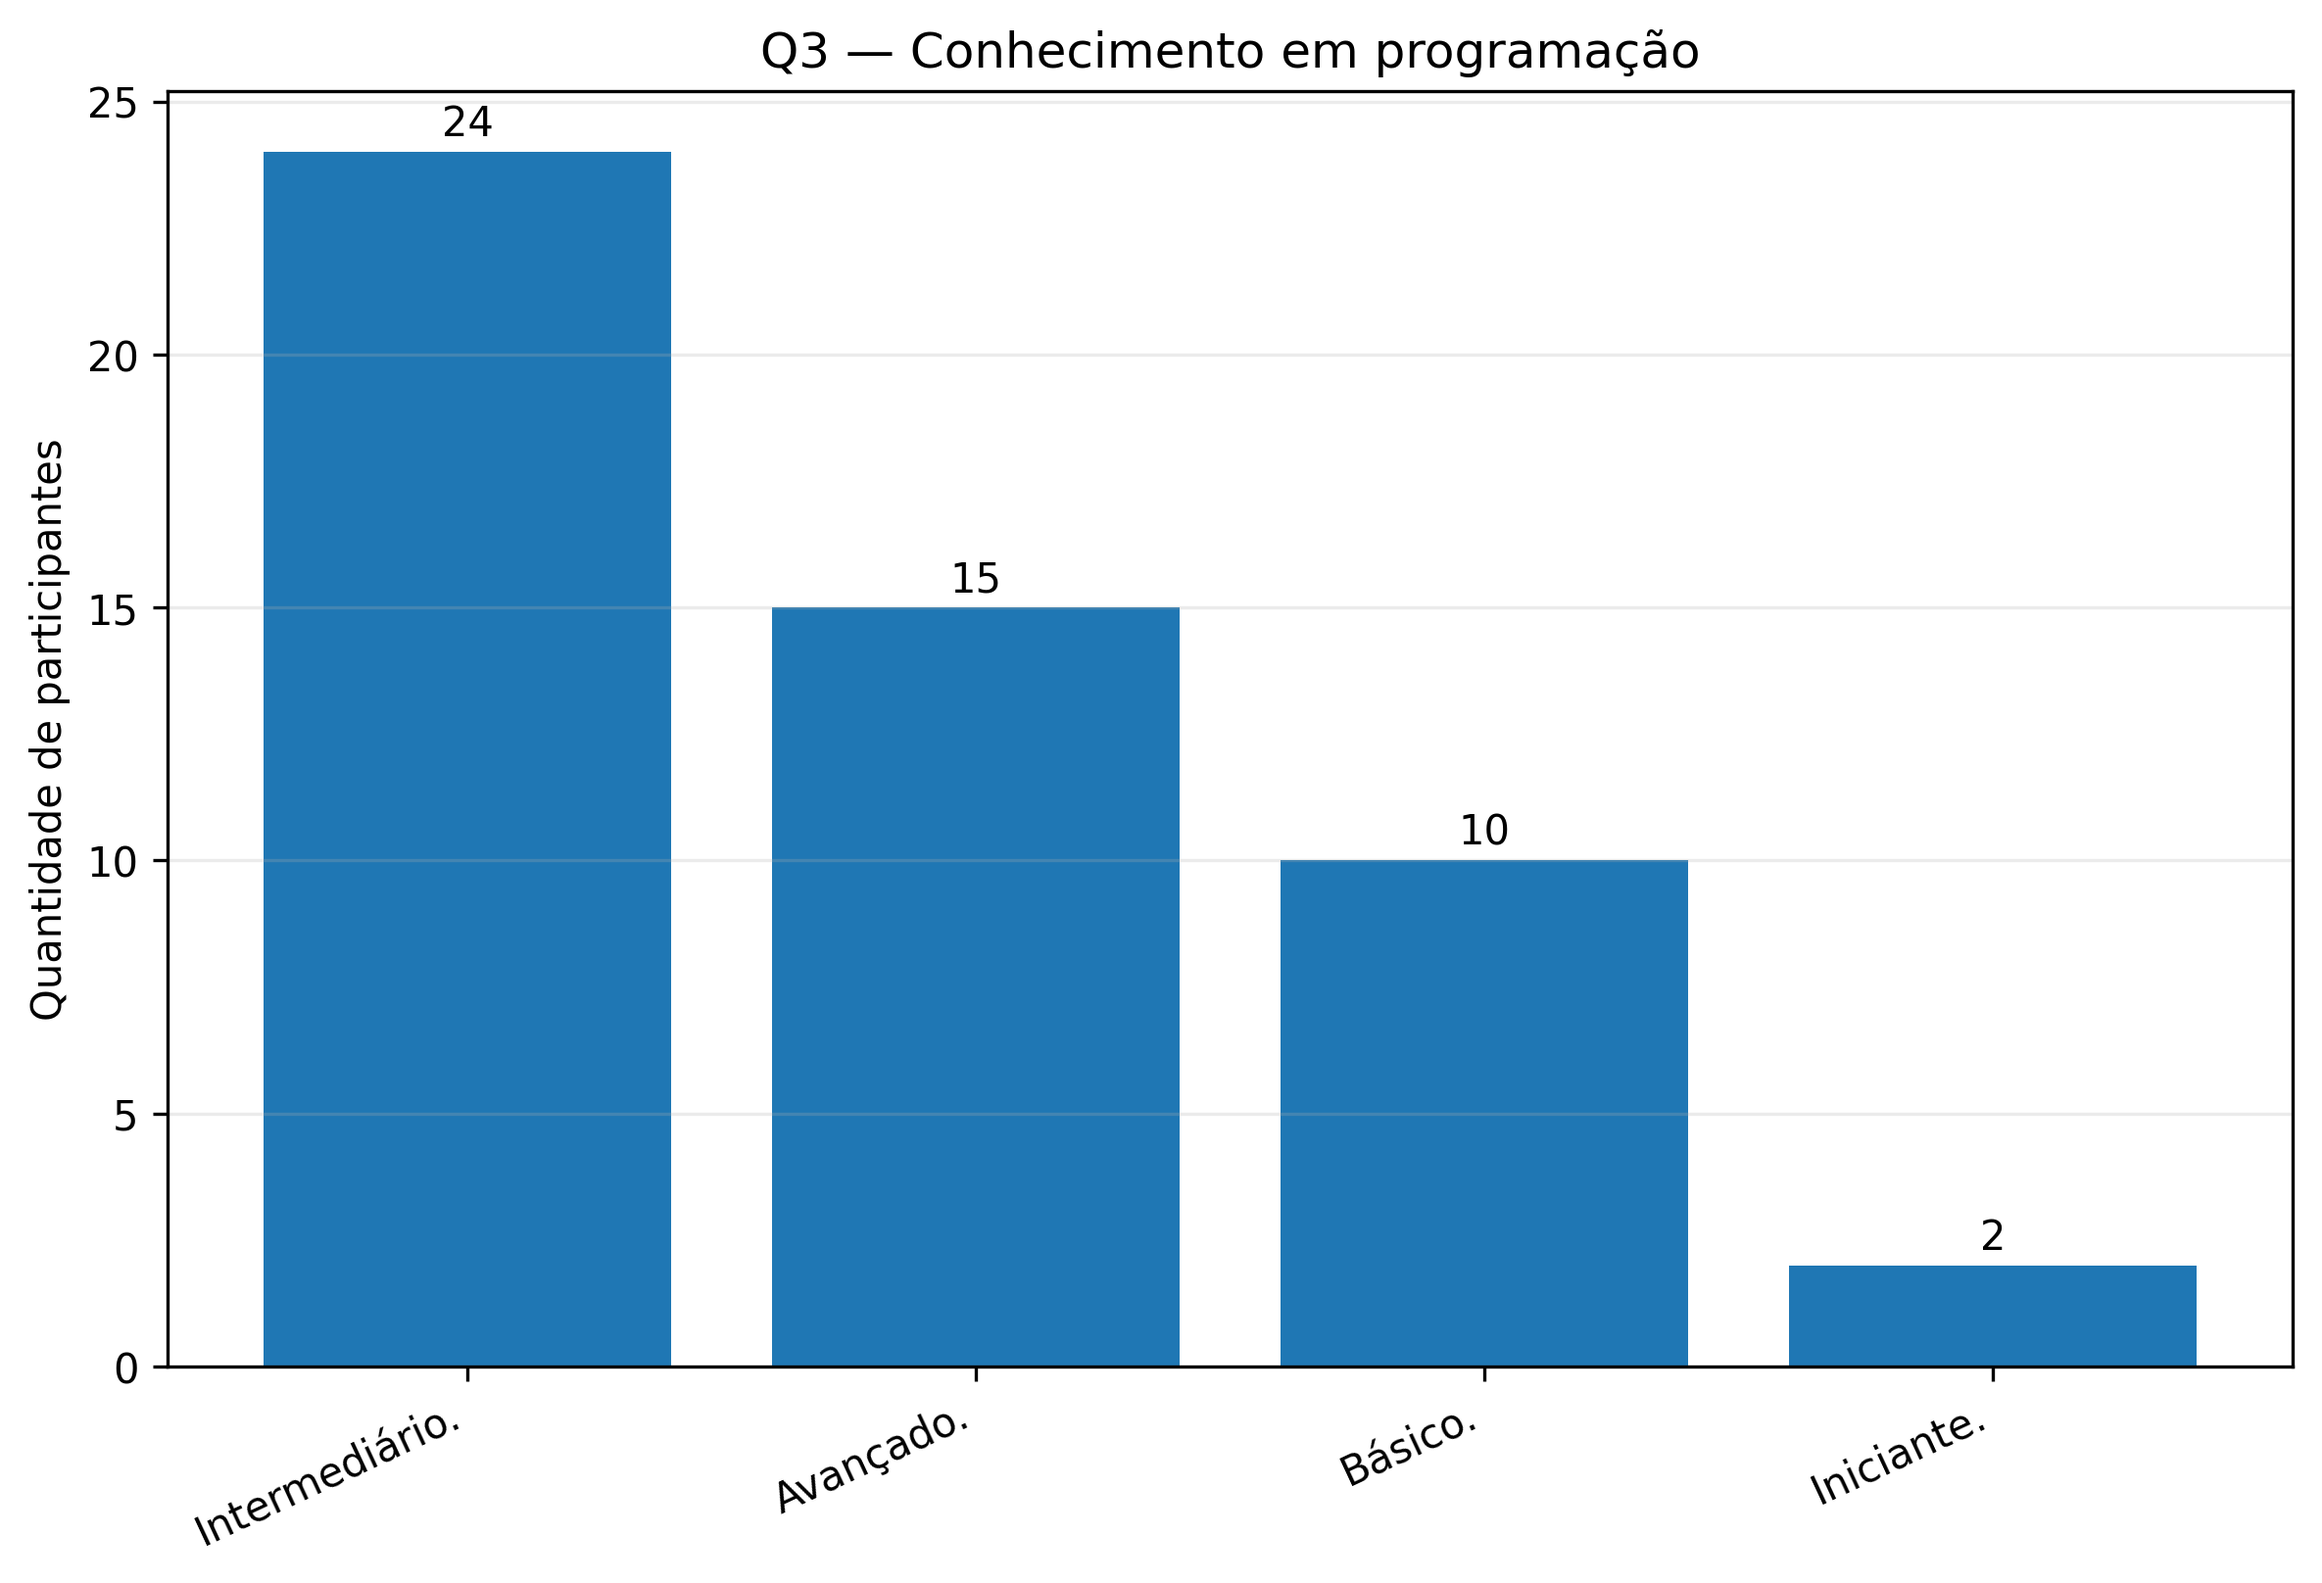
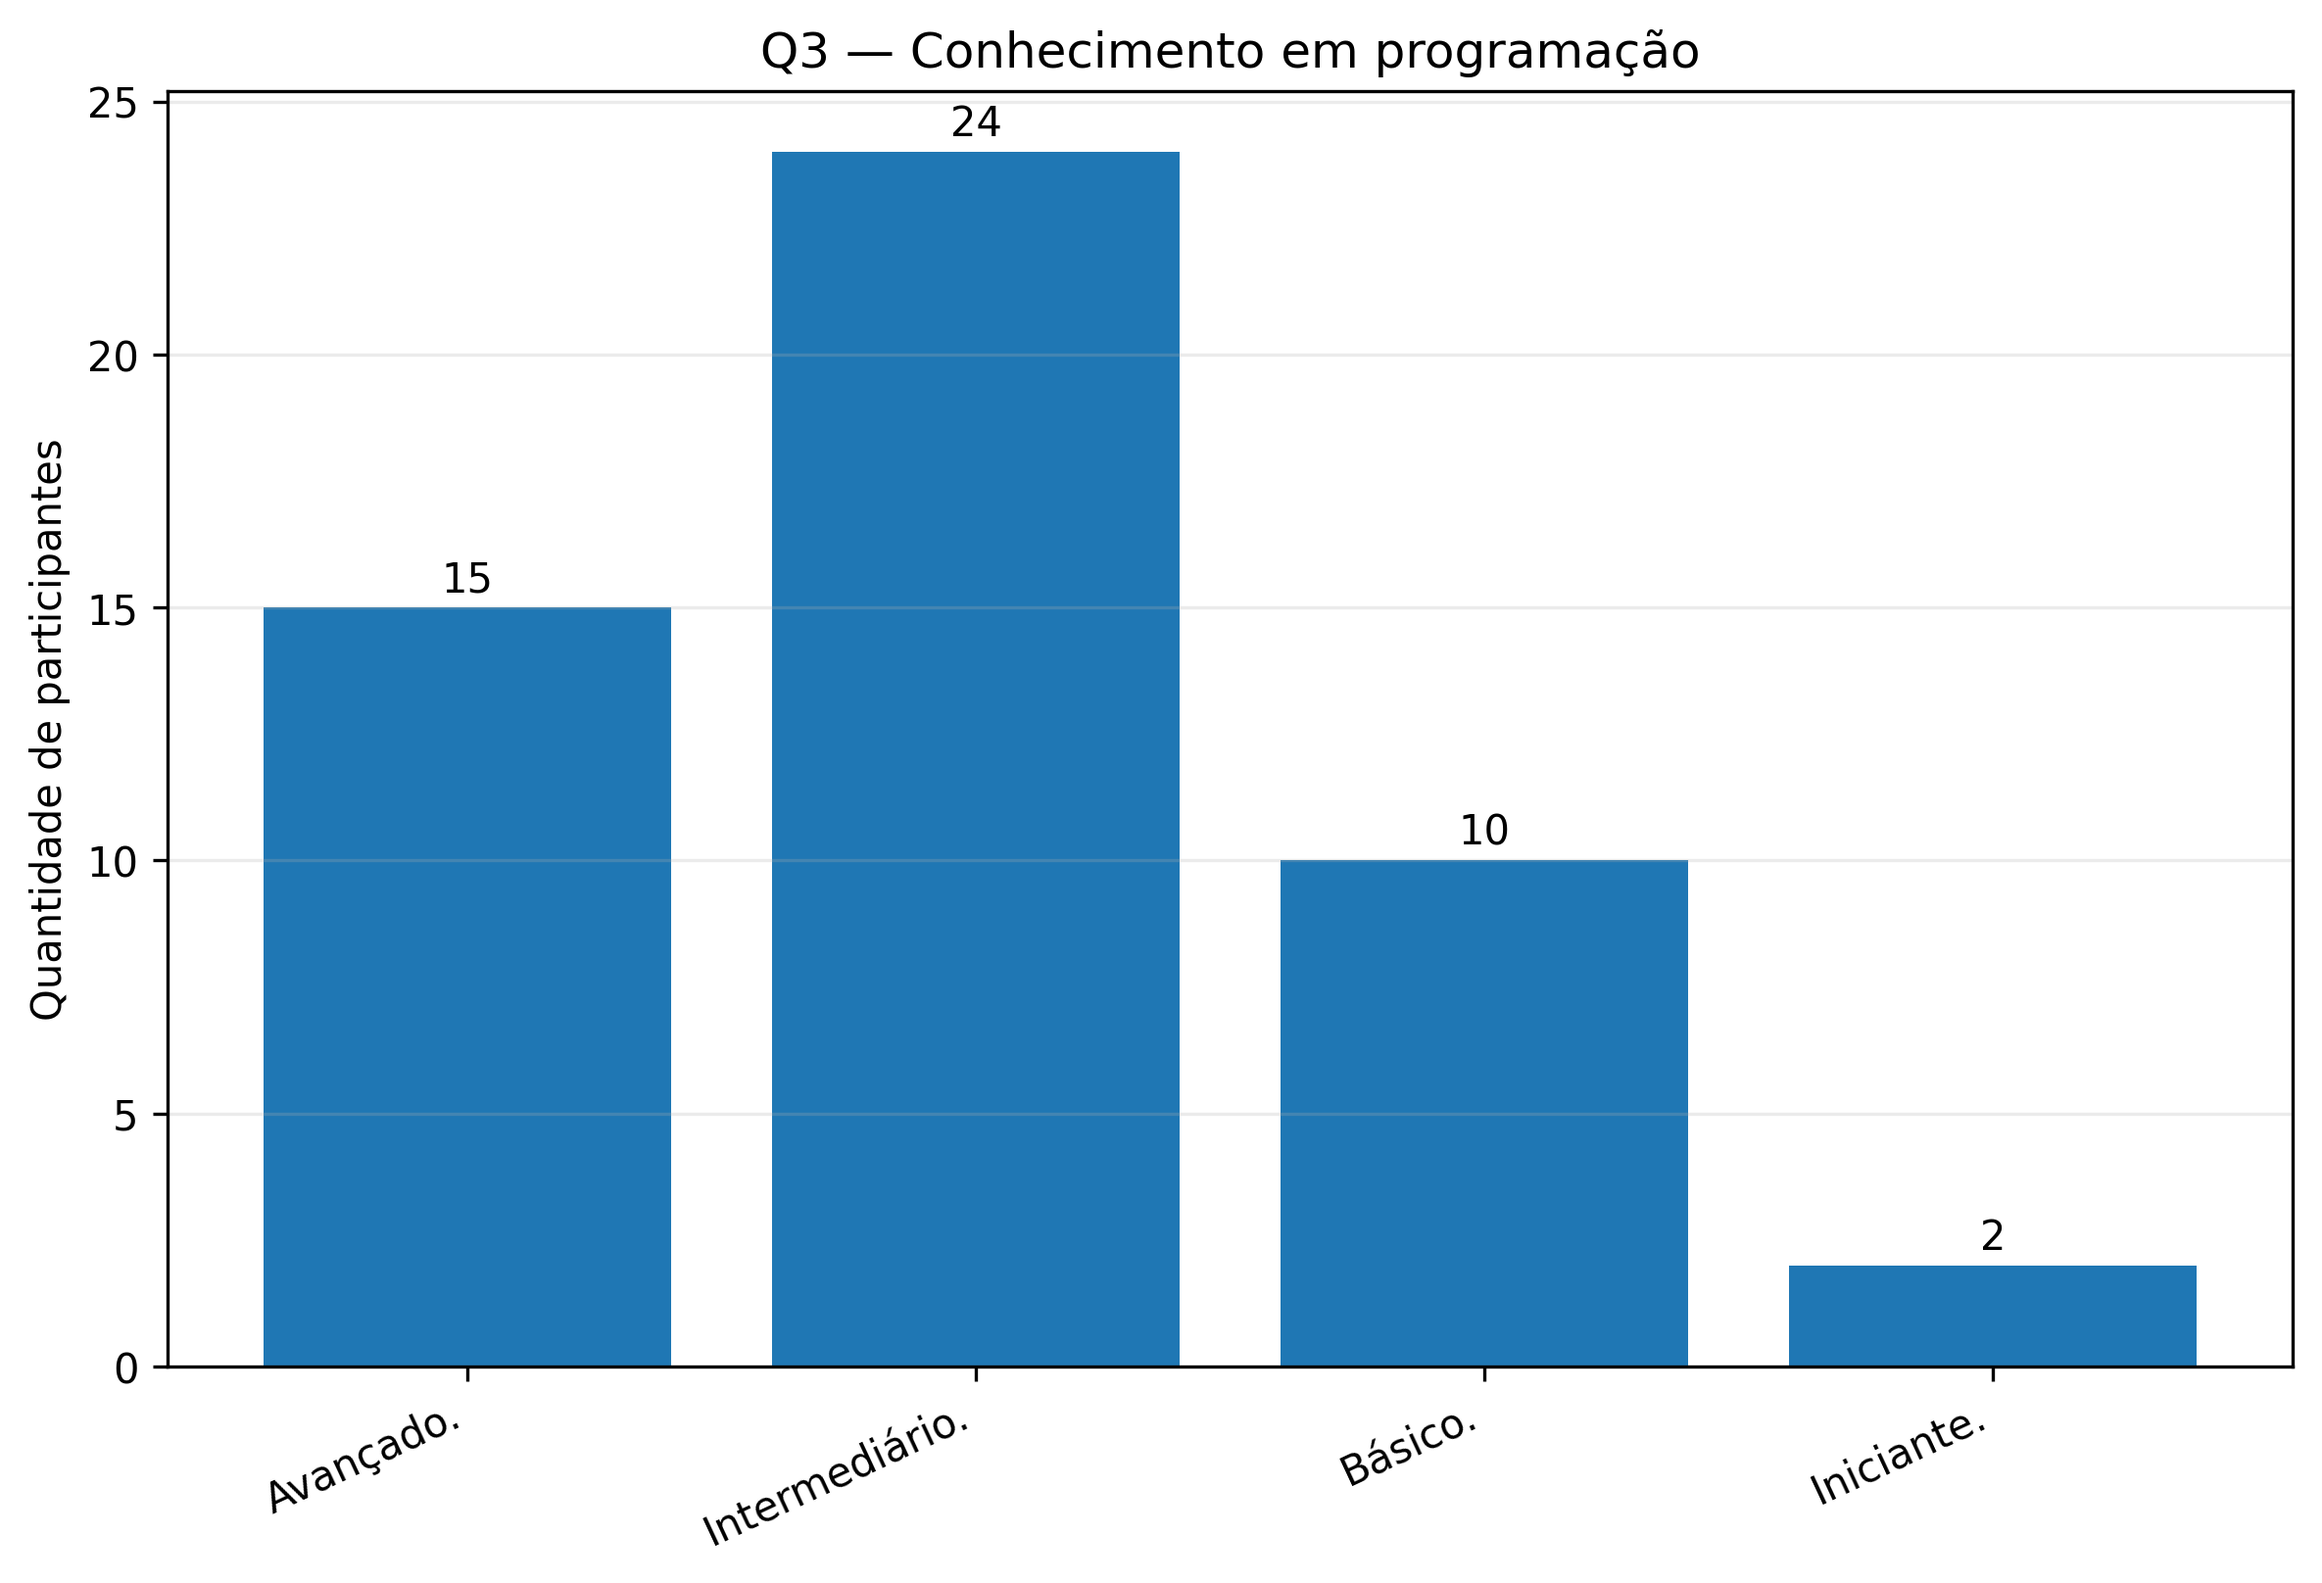
correcao nos graficos da secao 5.1

Changed region(s): [[0.0937, 0.0619, 0.5308, 0.4022], [0.3122, 0.8973, 0.4059, 0.9592], [0.0937, 0.8973, 0.1873, 0.9592]]

diff --git a/analise_5_1_completa.py b/analise_5_1_completa.py
@@ -115,6 +115,37 @@ print("-" * 72)
 for codigo in ["Q1", "Q2", "Q3", "Q4", "Q5"]:
     coluna = COLUNAS[codigo]
     tabela, n_validos = tabela_frequencia(df[coluna])
+    if codigo == "Q3":
+        ordem_q3 = [
+            "Avançado.",
+            "Intermediário.",
+            "Básico.",
+            "Iniciante.",
+        ]
+        tabela = tabela.reindex(
+            [categoria for categoria in ordem_q3 if categoria in tabela.index]
+        ).dropna(how="all")
+    if codigo == "Q4":
+        ordem_q4 = [
+            "Diariamente.",
+            "Algumas vezes por semana.",
+            "Algumas vezes por mês.",
+            "Raramente.",
+            "Nunca.",
+        ]
+        tabela = tabela.reindex(
+            [categoria for categoria in ordem_q4 if categoria in tabela.index]
+        ).dropna(how="all")
+    if codigo == "Q5":
+        ordem_q5 = [
+            "Mais de 4 anos.",
+            "De 1 a 4 anos.",
+            "Menos de 1 ano.",
+            "Não tenho experiência.",
+        ]
+        tabela = tabela.reindex(
+            [categoria for categoria in ordem_q5 if categoria in tabela.index]
+        ).dropna(how="all")
     tabelas[codigo] = tabela
     print(f"\n{codigo} — {NOMES[codigo]}")
     print(f"Respostas válidas: {n_validos}")
@@ -180,6 +211,18 @@ for coluna in [COLUNAS["Q3"], COLUNAS["Q5"]]:
 dados_cruzamento = dados_cruzamento.dropna()
 frequencias_cruzadas = pd.crosstab(dados_cruzamento[COLUNAS["Q5"]], dados_cruzamento[COLUNAS["Q3"]])
 percentuais_cruzados = (pd.crosstab(dados_cruzamento[COLUNAS["Q5"]], dados_cruzamento[COLUNAS["Q3"]], normalize="index") * 100).round(2)
+ordem_q5 = [
+    "Mais de 4 anos.",
+    "De 1 a 4 anos.",
+    "Menos de 1 ano.",
+    "Não tenho experiência.",
+]
+ordem_q5_presente = [
+    categoria for categoria in ordem_q5
+    if categoria in frequencias_cruzadas.index
+]
+frequencias_cruzadas = frequencias_cruzadas.reindex(ordem_q5_presente)
+percentuais_cruzados = percentuais_cruzados.reindex(ordem_q5_presente)
 
 print(f"Participantes considerados: {len(dados_cruzamento)}")
 print("\nFrequências absolutas:")

diff --git a/analise_5_2.py b/analise_5_2.py
@@ -133,12 +133,29 @@ def tabela_frequencia_multipla(serie, alternativas_conhecidas):
     return tabela, n_validos
 
 
-def salvar_grafico_unico(tabela, titulo, nome_arquivo):
+def salvar_grafico_unico(tabela, titulo, nome_arquivo, ordem_categorias=None):
     """Gera gráfico de barras para questão de resposta única."""
     if tabela.empty:
         return
 
-    tabela_plot = tabela.sort_values("Frequência", ascending=True)
+    if ordem_categorias is None:
+        tabela_plot = tabela.sort_values("Frequência", ascending=True)
+    else:
+        categorias_presentes = tabela["Categoria"].tolist()
+        ordem_plot = [
+            categoria for categoria in reversed(ordem_categorias)
+            if categoria in categorias_presentes
+        ]
+        categorias_nao_ordenadas = (
+            tabela.loc[~tabela["Categoria"].isin(ordem_categorias)]
+            .sort_values("Frequência", ascending=True)["Categoria"]
+            .tolist()
+        )
+        tabela_plot = (
+            tabela.set_index("Categoria")
+            .reindex(categorias_nao_ordenadas + ordem_plot)
+            .reset_index()
+        )
     categorias = tabela_plot["Categoria"].astype(str).map(
         lambda texto: textwrap.fill(texto, width=28)
     )
@@ -265,7 +282,13 @@ tabela_q7_export.to_csv(
 salvar_grafico_unico(
     tabela_q7_export,
     "Q7 — Frequência de utilização de ferramentas de IAG",
-    "q7_frequencia_utilizacao.png"
+    "q7_frequencia_utilizacao.png",
+    ordem_categorias=[
+        "Diariamente.",
+        "Frequentemente.",
+        "Às vezes.",
+        "Raramente.",
+    ]
 )
 
 
